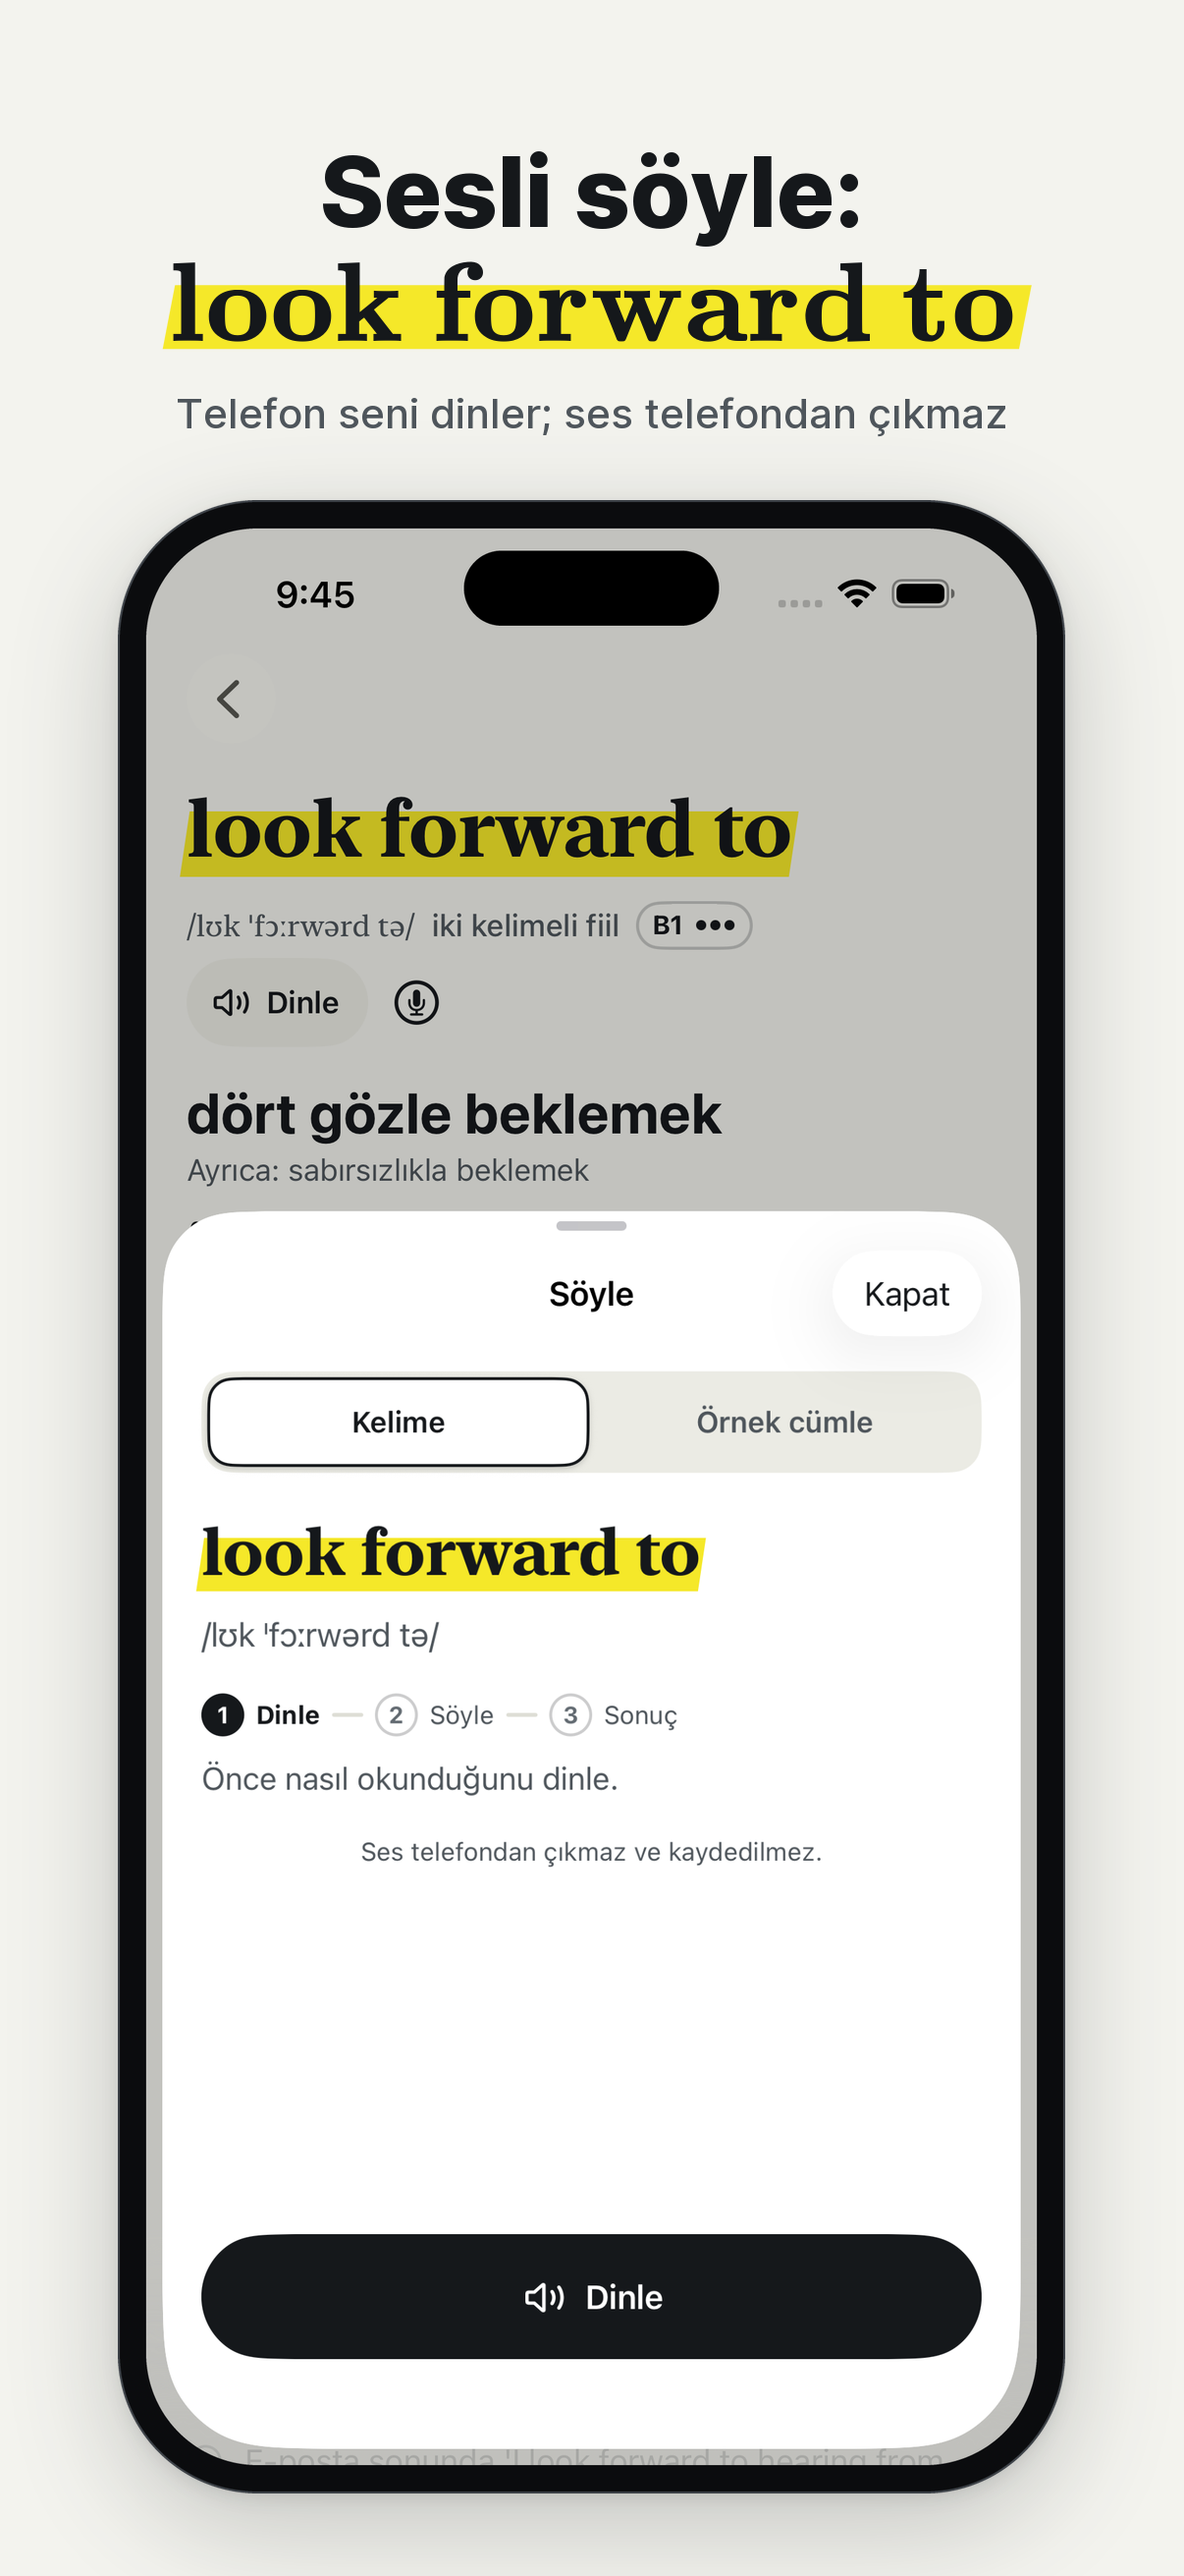
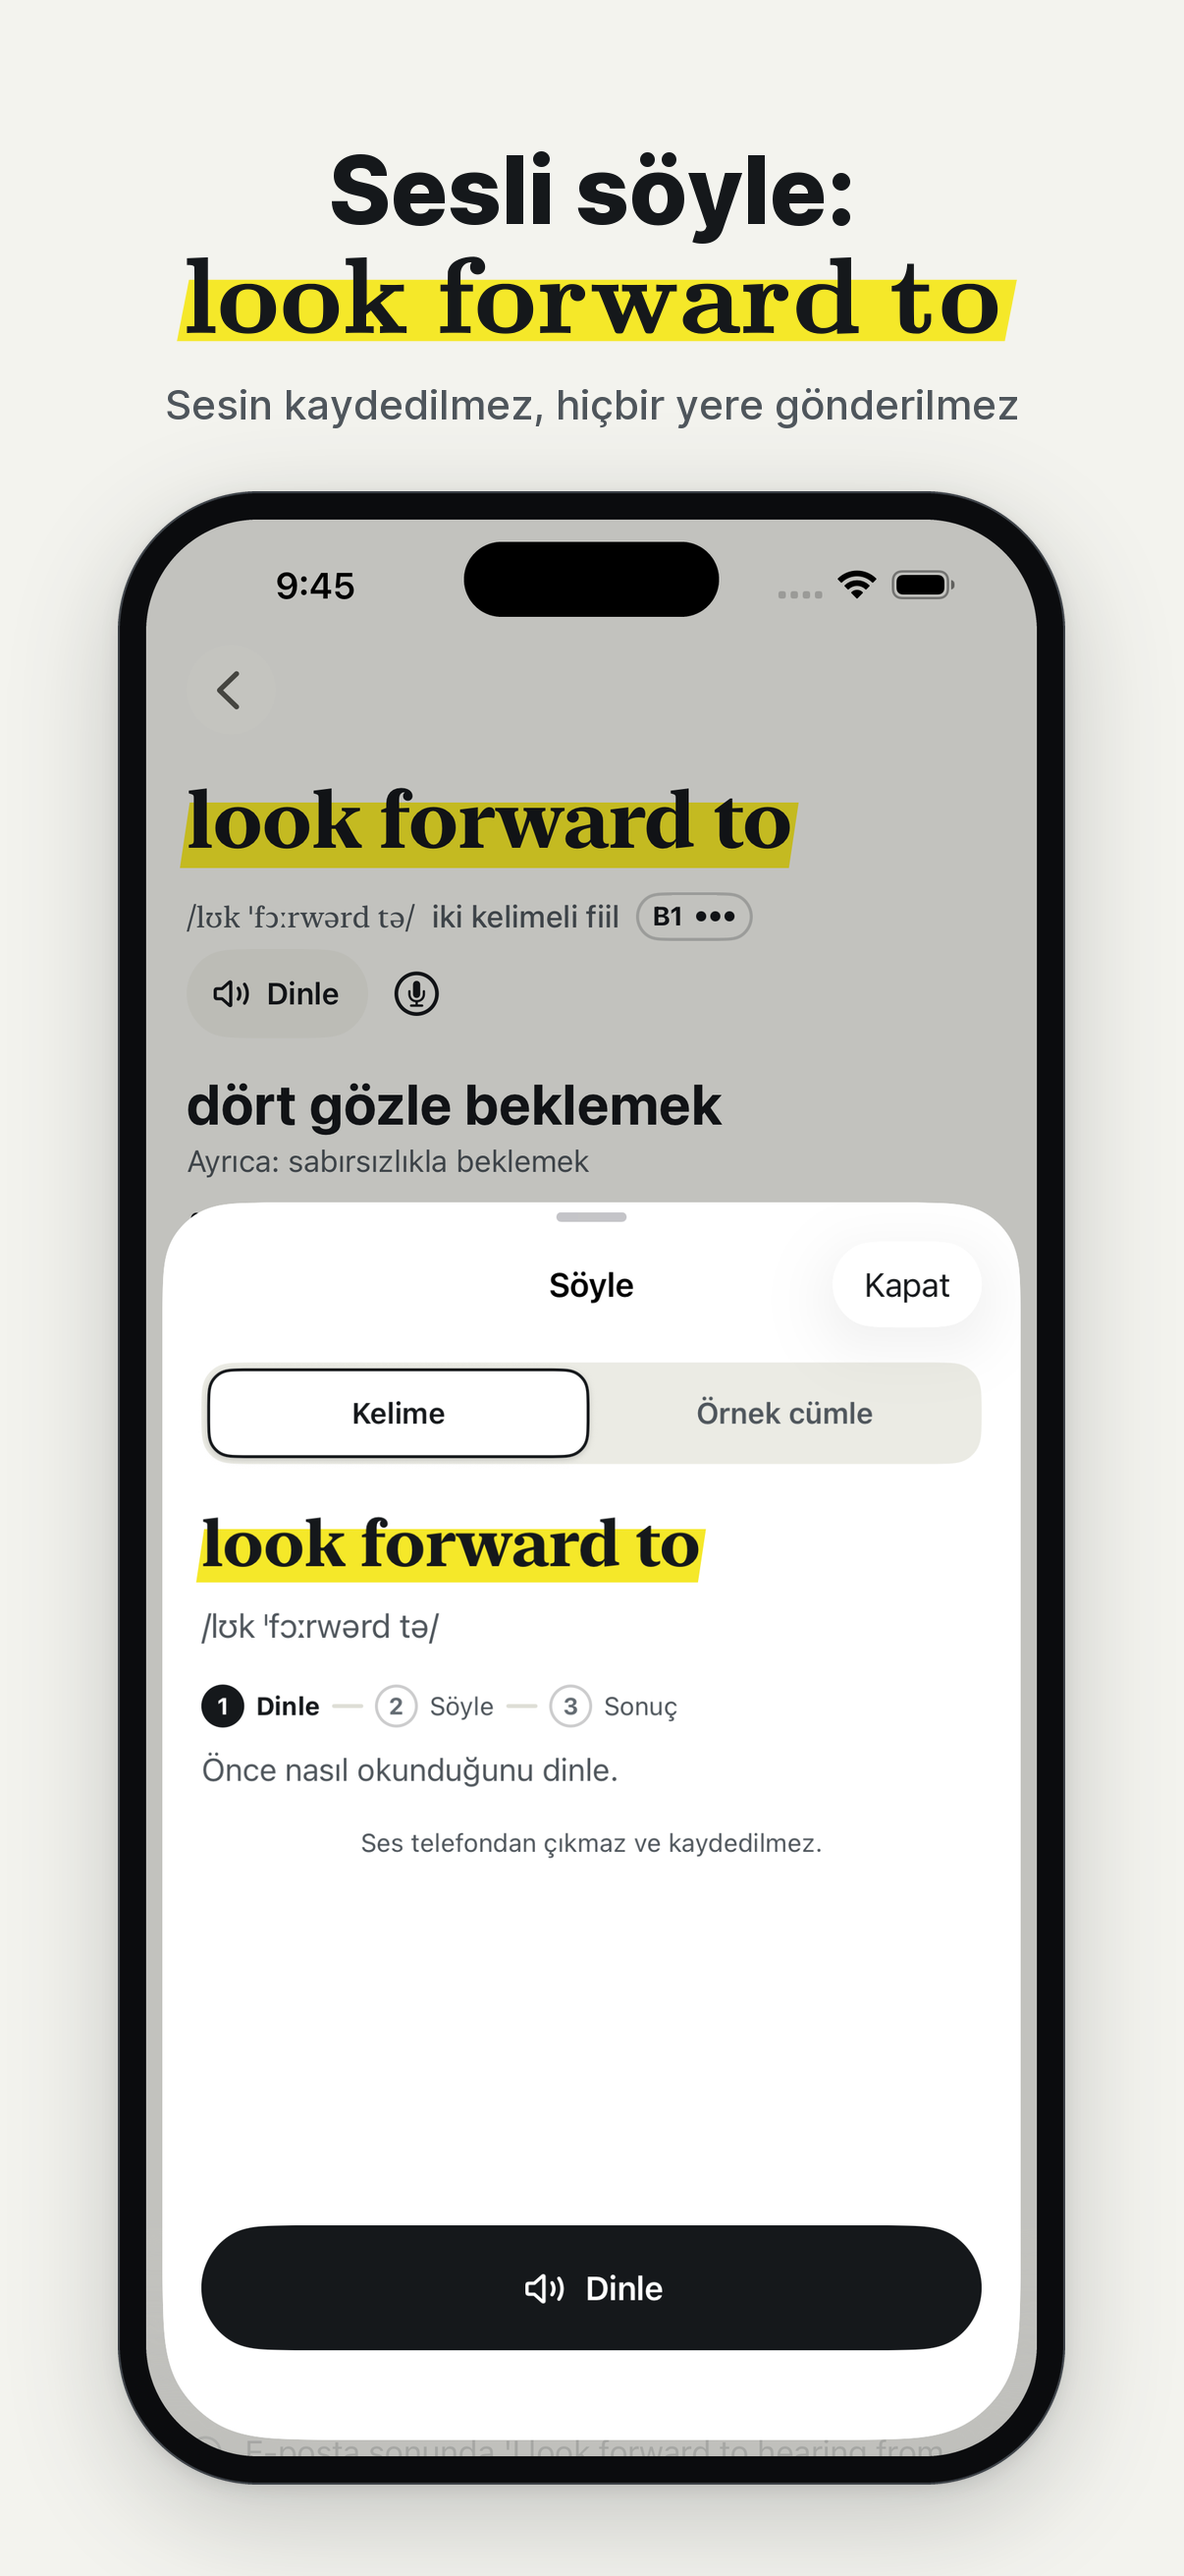
Mağaza görselleri: denetim düzeltmeleri
- 1. kare başlığı: "Telefona her bakışta yeni kelime: actually"
  ("actually öğren" yanlış okunuyordu); yakın çekim küçüldü, duvar
  kâğıdı daha doğal.
- 3, 5, 6, 7. karelerin alt satırları netleşti (6'da "ses telefondan
  çıkmaz" iki anlamlıydı).
- 3. karede cevap düğmelerinin yakın çekimi; 4. karede ikinci orta widget.
- Montaj saatleri gerçek çekimlerle aynı (9:45).
- README: denetim notu ve sonraki çekim için yapılacaklar.

diff --git a/docs/magaza/araclar/gorsel_uret.py b/docs/magaza/araclar/gorsel_uret.py
@@ -51,16 +51,16 @@ BOYUTLAR = {
 # yakin: ekranın bir bölümü büyütülüp telefonun üstüne konur (yakın çekim).
 #   kutu: ekran pikseli (1320 genişlikte), r: köşe yarıçapı (ekran pikseli),
 #   genislik: görsel genişliğine oranı, merkez_y: görsel yüksekliğine oranı
-#   (yoksa bölümün telefondaki yerine konur).
+#   (yoksa bölümün telefondaki yerine konur), kaydir: o yerden aşağı kayma (yükseklik oranı).
 
 KARELER = [
     {
         "dosya": "01-kilit-ekrani-widget",
-        "baslik": "Telefona bak,\n{actually} öğren",
+        "baslik": "Telefona her bakışta\nyeni kelime: {actually}",
         "alt": "Kilit ekranında, Türkçe anlamıyla",
         "ekran": "kilit",
         "tasma": True,
-        "yakin": {"kutu": (345, 648, 975, 950), "r": 60, "genislik": 0.74, "merkez_y": 0.70},
+        "yakin": {"kutu": (345, 648, 975, 950), "r": 60, "genislik": 0.64, "merkez_y": 0.66},
     },
     {
         "dosya": "02-kelime-karti",
@@ -72,9 +72,10 @@ KARELER = [
     {
         "dosya": "03-tekrar",
         "baslik": "Unutmadan önce\n{breakfast} yine gelir",
-        "alt": "Ne kadar bildiğini seç, süresi ona göre ayarlanır",
+        "alt": "Bildiğine göre tekrar zamanı ayarlanır",
         "ekran": "kaynak",
         "kaynak": "5-tekrar-kart-arka",
+        "yakin": {"kutu": (24, 2290, 1296, 2762), "r": 60, "genislik": 0.90},
     },
     {
         "dosya": "04-widget-dinle",
@@ -86,22 +87,22 @@ KARELER = [
     {
         "dosya": "05-dikkat",
         "baslik": "{spoon} derken\nhata nerede?",
-        "alt": "Dikkat kutusu sık yapılan hatayı gösterir",
+        "alt": "Türkçeden gelen hatayı doğrusuyla gösterir",
         "ekran": "kaynak",
         "kaynak": "2-akis-ikinci-kart",
-        "yakin": {"kutu": (102, 1560, 1218, 2045), "r": 48, "genislik": 0.86},
+        "yakin": {"kutu": (102, 1560, 1218, 2045), "r": 48, "genislik": 0.86, "kaydir": 0.012},
     },
     {
         "dosya": "06-soyle",
         "baslik": "Sesli söyle:\n{look forward to}",
-        "alt": "Telefon seni dinler; ses telefondan çıkmaz",
+        "alt": "Sesin kaydedilmez, hiçbir yere gönderilmez",
         "ekran": "kaynak",
         "kaynak": "8b-soyle-sayfasi",
     },
     {
         "dosya": "07-sozluk",
         "baslik": "Türkçesini yaz,\n{breakfast} çıksın",
-        "alt": "ı/i, ş/s karışsa da bulur",
+        "alt": "Birkaç harf yazman yeter",
         "ekran": "kaynak",
         "kaynak": "7-sozluk-arama",
     },
@@ -342,17 +343,34 @@ def durum_simgeleri(kaynak_ekran, beyaz):
     return s, kutu
 
 
+def yumusak_isik(tuval, merkez, yaricap, renk, opaklik):
+    """Duvar kâğıdına bulanık, açık bir leke (düz gradyan yapay durmasın diye)."""
+    m = Image.new("L", tuval.size, 0)
+    cx, cy = merkez
+    ImageDraw.Draw(m).ellipse((cx - yaricap, cy - yaricap, cx + yaricap, cy + yaricap), fill=int(255 * opaklik))
+    m = m.filter(ImageFilter.GaussianBlur(yaricap * 0.5))
+    k = Image.new("RGBA", tuval.size, renk + (0,))
+    k.putalpha(m)
+    tuval.alpha_composite(k)
+
+
+# Montajlardaki saat, gerçek çekimlerin durum çubuğuyla aynı.
+SAAT = "9:45"
+
+
 def kilit_ekrani(kaynak, yazi):
-    """9:41, tarih ve gerçek kilit ekranı widget'ı (actually) koyu bir duvar kâğıdında."""
+    """Saat, tarih ve gerçek kilit ekranı widget'ı (actually) koyu bir duvar kâğıdında."""
     ref = kaynak_yukle(kaynak, "1-akis")
     w, h = ref.size
     pt = w / 440
-    e = dikey_gradyan((w, h), (0x30, 0x35, 0x3B), NIGHT)
+    e = dikey_gradyan((w, h), (0x2C, 0x31, 0x37), NIGHT)
+    yumusak_isik(e, (w * 0.15, h * 0.10), w * 0.75, (0x6B, 0x74, 0x7C), 0.55)
+    yumusak_isik(e, (w * 0.95, h * 0.78), w * 0.55, (0x4E, 0x55, 0x5B), 0.45)
     d = ImageDraw.Draw(e)
     simge, kutu = durum_simgeleri(ref, beyaz=True)
     e.alpha_composite(simge, kutu[:2])
     d.text((w / 2, 74 * pt), "22 Ekim Perşembe", font=yazi.sans(21 * pt, 600), fill=(255, 255, 255, 235), anchor="mt")
-    d.text((w / 2, 210 * pt), "9:41", font=yazi.sans(116 * pt, 600), fill=(255, 255, 255, 245), anchor="ms")
+    d.text((w / 2, 210 * pt), SAAT, font=yazi.sans(116 * pt, 600), fill=(255, 255, 255, 245), anchor="ms")
     rect = canli_beyaz(kaynak_yukle(kaynak, "rect-actually"), 71)
     rw = round(170 * pt)               # accessoryRectangular, Pro Max ~170 x 76 pt
     rect = rect.resize((rw, round(rect.height * rw / rect.width)), Image.LANCZOS)
@@ -366,9 +384,10 @@ def ana_ekran(kaynak, yazi):
     w, h = ref.size
     pt = w / 440
     e = dikey_gradyan((w, h), (0x7A, 0x82, 0x88), (0x2B, 0x30, 0x36))
+    yumusak_isik(e, (w * 0.85, h * 0.12), w * 0.7, (0xA9, 0xB0, 0xB5), 0.45)
     simge, kutu = durum_simgeleri(ref, beyaz=True)
     e.alpha_composite(simge, kutu[:2])
-    ImageDraw.Draw(e).text((52 * pt, 34 * pt), "9:41", font=yazi.sans(17 * pt, 600), fill=(255, 255, 255, 255), anchor="lm")
+    ImageDraw.Draw(e).text((52 * pt, 34 * pt), SAAT, font=yazi.sans(17 * pt, 600), fill=(255, 255, 255, 255), anchor="lm")
     kenar, bosluk = 38 * pt, 24 * pt   # Pro Max: orta 364 x 170 pt, küçük 170 x 170 pt
     orta = kaynak_yukle(kaynak, "medium-misunderstanding")
     ow = round(364 * pt)
@@ -380,6 +399,10 @@ def ana_ekran(kaynak, yazi):
     for i, ad in enumerate(["small-fridge-koyu", "small-actually"]):
         k = kaynak_yukle(kaynak, ad).resize((sw, sw), Image.LANCZOS)
         e.alpha_composite(k, (round(kenar + i * (sw + 24 * pt)), y))
+    y += sw + round(bosluk)
+    koyu = kaynak_yukle(kaynak, "medium-under the weather-koyu")
+    koyu = koyu.resize((ow, round(koyu.height * ow / koyu.width)), Image.LANCZOS)
+    e.alpha_composite(koyu, (round(kenar), y))
     # iOS ana ekranının altındaki "Ara" kapsülü
     kw, kh = round(84 * pt), round(30 * pt)
     kx, ky = (w - kw) // 2, h - round(118 * pt)
@@ -431,7 +454,7 @@ def kare_uret(kare, kaynak, yazi, W, H, baslik_boyutu):
         if "merkez_y" in y:
             merkez = y["merkez_y"] * H
         else:                                   # bölümün telefondaki yeri
-            merkez = ust + (b + (y0 + y1) / 2) * olcek
+            merkez = ust + (b + (y0 + y1) / 2) * olcek + y.get("kaydir", 0) * H
         yakin_ekle(tuval, ekran.crop((x0, y0, x1, y1)), y["r"], round(W * y["genislik"]), merkez, s)
     return tuval.convert("RGB")   # App Store: alfa kanalı olmamalı
 

diff --git a/docs/magaza/gorseller/README.md b/docs/magaza/gorseller/README.md
@@ -30,24 +30,33 @@ Aramada yalnızca ilk 2–3 kare görünür. Bu yüzden en güçlü üçü başt
 
 | # | Dosya | Başlık | Alt satır | Ekran | Neden bu sırada? |
 |---|---|---|---|---|---|
-| 1 | `01-kilit-ekrani-widget.png` | Telefona bak, **actually** öğren | Kilit ekranında, Türkçe anlamıyla | Kilit ekranı montajı + widget'ın yakın çekimi | Uygulamanın asıl farkı: kelime, uygulama açılmadan gözüne çarpar. Yakın çekim, küçük önizlemede de okunsun diye. |
+| 1 | `01-kilit-ekrani-widget.png` | Telefona her bakışta yeni kelime: **actually** | Kilit ekranında, Türkçe anlamıyla | Kilit ekranı montajı + widget'ın yakın çekimi | Uygulamanın asıl farkı: kelime, uygulama açılmadan gözüne çarpar. Yakın çekim, küçük önizlemede de okunsun diye. |
 | 2 | `02-kelime-karti.png` | **breakfast** ne demek? | Türkçesi, örneği ve sesi tek kartta | `1-akis` | "Türkçe açıklamalı" vaadini tek bakışta gösterir. Soru biçimi merak uyandırır; cevap (kahvaltı) ekranda. |
-| 3 | `03-tekrar.png` | Unutmadan önce **breakfast** yine gelir | Ne kadar bildiğini seç, süresi ona göre ayarlanır | `5-tekrar-kart-arka` | Öğrenme yöntemini anlatır. Dört cevap ve süreleri ("10 dakika sonra" … "2 gün sonra") ekranda görünür. |
-| 4 | `04-widget-dinle.png` | **misunderstanding** nasıl okunur? | Uygulamayı açmadan, widget'tan dinle | Ana ekran montajı: orta + iki küçük widget | Widget'taki Dinle, Biliyorum, Sonraki düğmeleri. Açık ve koyu widget birlikte. |
-| 5 | `05-dikkat.png` | **spoon** derken hata nerede? | Dikkat kutusu sık yapılan hatayı gösterir | `2-akis-ikinci-kart` + Dikkat kutusunun yakın çekimi | Türkçe konuşanların sık yaptığı hatayı ve nedenini gösterir; yalnız çeviri veren uygulamalardan ayrılır. |
-| 6 | `06-soyle.png` | Sesli söyle: **look forward to** | Telefon seni dinler; ses telefondan çıkmaz | `8b-soyle-sayfasi` | Söyleme alıştırması ve gizlilik ("Ses telefondan çıkmaz ve kaydedilmez" ekranda yazıyor). |
-| 7 | `07-sozluk.png` | Türkçesini yaz, **breakfast** çıksın | ı/i, ş/s karışsa da bulur | `7-sozluk-arama` | Sözlük yardımcı bir özellik; en sona. Klavye yer kapladığı için görsel olarak en zayıf kare. |
+| 3 | `03-tekrar.png` | Unutmadan önce **breakfast** yine gelir | Bildiğine göre tekrar zamanı ayarlanır | `5-tekrar-kart-arka` + cevap düğmelerinin yakın çekimi | Öğrenme yöntemini anlatır. Dört cevap ve süreleri ("10 dakika sonra" … "2 gün sonra") büyütülerek gösterilir; böylece 2. kareden ayrışır. |
+| 4 | `04-widget-dinle.png` | **misunderstanding** nasıl okunur? | Uygulamayı açmadan, widget'tan dinle | Ana ekran montajı: iki orta + iki küçük widget | Widget'taki Dinle, Biliyorum, Sonraki düğmeleri. Açık ve koyu widget birlikte. |
+| 5 | `05-dikkat.png` | **spoon** derken hata nerede? | Türkçeden gelen hatayı doğrusuyla gösterir | `2-akis-ikinci-kart` + Dikkat kutusunun yakın çekimi | Türkçe konuşanların sık yaptığı hatayı ve nedenini gösterir; yalnız çeviri veren uygulamalardan ayrılır. |
+| 6 | `06-soyle.png` | Sesli söyle: **look forward to** | Sesin kaydedilmez, hiçbir yere gönderilmez | `8b-soyle-sayfasi` | Söyleme alıştırması ve gizlilik. Uygulama ekranda "Ses telefondan çıkmaz ve kaydedilmez" diyor; alt satır bunu karışmayacak biçimde söylüyor. |
+| 7 | `07-sozluk.png` | Türkçesini yaz, **breakfast** çıksın | Birkaç harf yazman yeter | `7-sozluk-arama` | Ekranda "kahv" yazınca breakfast çıkıyor; alt satır tam bunu söylüyor. Sözlük yardımcı bir özellik; en sona. Klavye yer kapladığı için görsel olarak en zayıf kare. |
 
 **Başlık kuralı:** her başlıkta tek bir İngilizce kelime var. O kelime uygulamadaki gibi serif yazılır ve fosfor şeridi alır. Geri kalan her şey kâğıt ve mürekkep. Tek istisna 6. kare: "look forward to" üç kelimelik bir kalıp ama uygulamada tek kart (tek "kelime").
 
-Başlıklar en çok 2 satır. Sayı yok (kart sayısı değiştikçe görsel eskimesin; Kural 2.3.3).
+Başlıklar en çok 2 satır. Sayı yok (kart sayısı değiştikçe görsel eskimesin; Kural 2.3.3). Bütün karelerde başlık boyutu aynı; en uzun satır ("misunderstanding") boyutu belirler.
+
+**Bağımsız denetim (22 Ekim):** bir denetçi ajan bütün kareleri inceledi. Önerilerinden şunlar uygulandı:
+- 1. karenin başlığı ("actually öğren", "aslında öğren" gibi okunuyordu);
+- 3, 5, 6 ve 7. karelerin alt satırları;
+- 3. karede cevap düğmelerinin yakın çekimi;
+- 4. karedeki boşluk;
+- montajlardaki saat (gerçek çekimlerle aynı, 9:45).
+
+Önerdiği sıra (01, 02, 04, 05, 03, …) uygulanmadı: görev ilk üç için widget, kelime kartı ve Tekrar'ı istedi.
 
 ## Neyin gerçek, neyin montaj olduğu
 
 - **2, 3, 5, 6, 7:** telefonun içi, `screenshots.yml` çalıştırmasının gerçek Pro Max ekran görüntüsü. Hiç değiştirilmedi. Durum çubuğundaki saat gerçek çekimdeki gibi (9:45, 9:46).
-- **1 (kilit ekranı):** duvar kâğıdı, tarih ve "9:41" çizildi. Widget, `WidgetSnapshotTests`'in gerçek kilit ekranı çıktısı (`rect-actually`). Gri test plakası, iOS'un kilit ekranındaki yarı saydam görünüme çevrildi. Wi-Fi ve pil simgeleri gerçek ekran görüntüsünden alındı.
-- **4 (ana ekran):** duvar kâğıdı ve "Ara" kapsülü çizildi. Widget'lar gerçek çıktılar (`medium-misunderstanding`, `small-fridge-koyu`, `small-actually`), Pro Max widget boyutuna (364 × 170 pt, 170 × 170 pt) getirildi. Başka uygulama ikonu yok.
-- **Yakın çekim (1 ve 5):** ekranın bir bölümü büyütülüp beyaz kenarlı bir kart olarak telefonun üstüne kondu. İçerik aynı.
+- **1 (kilit ekranı):** duvar kâğıdı, tarih ve saat (9:45) çizildi. Widget, `WidgetSnapshotTests`'in gerçek kilit ekranı çıktısı (`rect-actually`). Gri test plakası, iOS'un kilit ekranındaki yarı saydam görünüme çevrildi. Wi-Fi ve pil simgeleri gerçek ekran görüntüsünden alındı.
+- **4 (ana ekran):** duvar kâğıdı, saat ve "Ara" kapsülü çizildi. Widget'lar gerçek çıktılar (`medium-misunderstanding`, `small-fridge-koyu`, `small-actually`, `medium-under the weather-koyu`), Pro Max widget boyutuna (364 × 170 pt, 170 × 170 pt) getirildi. Başka uygulama ikonu yok.
+- **Yakın çekim (1, 3 ve 5):** ekranın bir bölümü büyütülüp beyaz kenarlı bir kart olarak telefonun üstüne kondu. İçerik aynı.
 
 ## Göndermeden önce
 
@@ -55,6 +64,15 @@ Başlıklar en çok 2 satır. Sayı yok (kart sayısı değiştikçe görsel esk
 2. **Kilit ekranı:** mümkünse 1. kareyi gerçek bir cihazdan alınmış kilit ekranı görüntüsüyle değiştir. Montaj kabul edilebilir ama gerçek çekim daha güvenli.
 3. **Ad kesinleşince** görsellerin değişmesi gerekmez (ad yok). İkon kesinleşirse istenirse eklenebilir.
 4. Görüntüler `ios/arayuz-sik` dalının 22 Ekim çekiminden. Arayüz değişirse yeniden üret (aşağıda).
+
+### Sonraki çekimde (screenshots.yml tek turda)
+
+- **Durum çubuğu:** saat 9:41, tam sinyal ve tam pil. Şimdi gri "operatör yok" noktaları ve 9:45/9:46 görünüyor. Simülatörde `xcrun simctl status_bar <cihaz> override --time 9:41 --cellularBars 4 --batteryLevel 100` ile ayarlanır. Montajlardaki saat de `gorsel_uret.py` içindeki `SAAT` ile 9:41 yapılır.
+- **Söyle:** "Doğru!" sonucuyla çekilsin. Şimdiki çekim 1. adımda (Dinle); arkadaki sayfanın altında yarım bir satır görünüyor.
+- **Kelime çeşitliliği:** 2, 3 ve 7. karede aynı kelime (breakfast) var. Tekrar ve Sözlük başka bir kelimeyle çekilirse kareler birbirinden daha çok ayrışır.
+- **Sözlük:** "kahvalti" (ı yerine i) yazılarak çekilirse "ı/i karışsa da bulur" özelliği de görünür.
+- **Quiz:** Pro Max'te tam ekran quiz çekimi ("Boşluğu doldur" karesi için).
+- **Uygulama metni:** Söyle sayfasındaki "Ses telefondan çıkmaz" cümlesi "telefondan ses çıkmaz" gibi de okunabiliyor. Ayrı bir iş olarak düşünülebilir (ör. "Sesin kaydedilmez, telefonunda kalır").
 
 ## Kullanılmayan ekranlar
 
